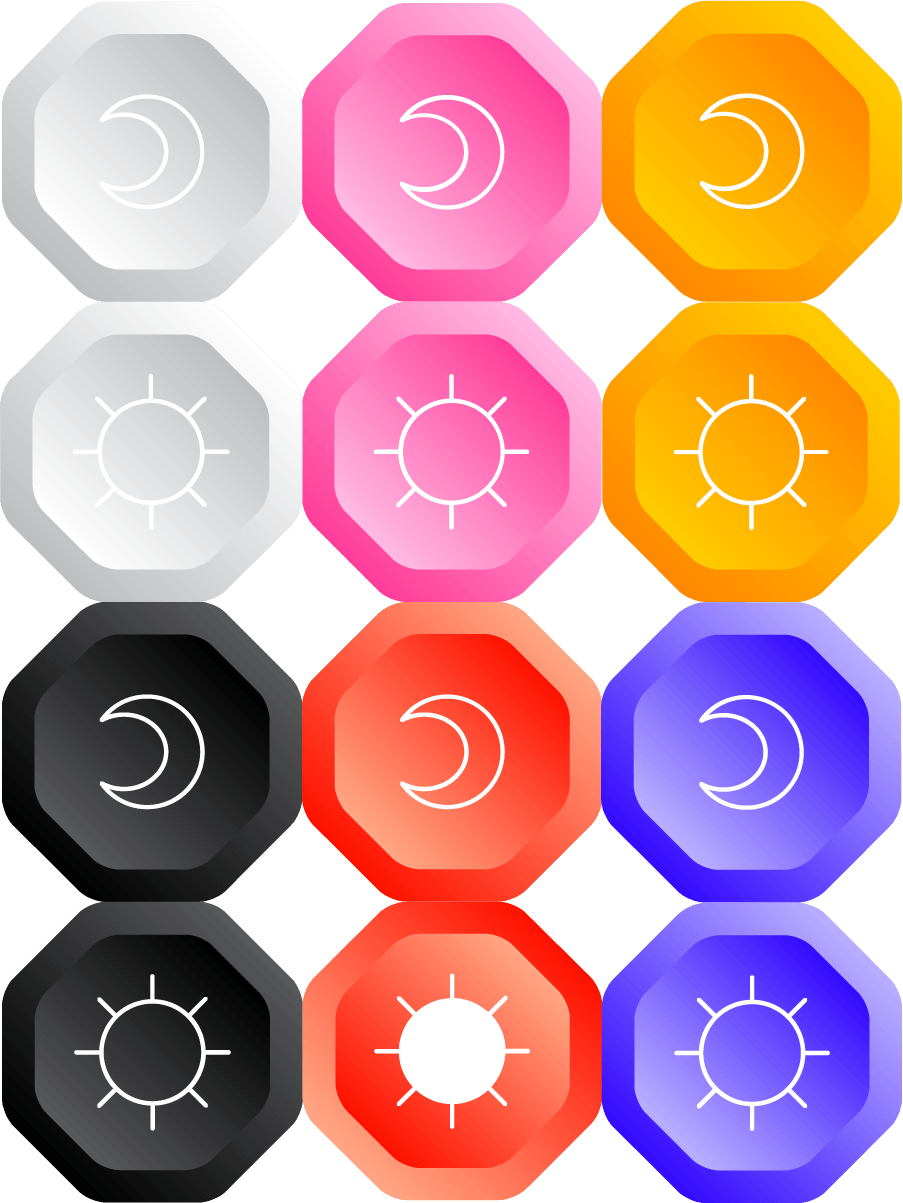
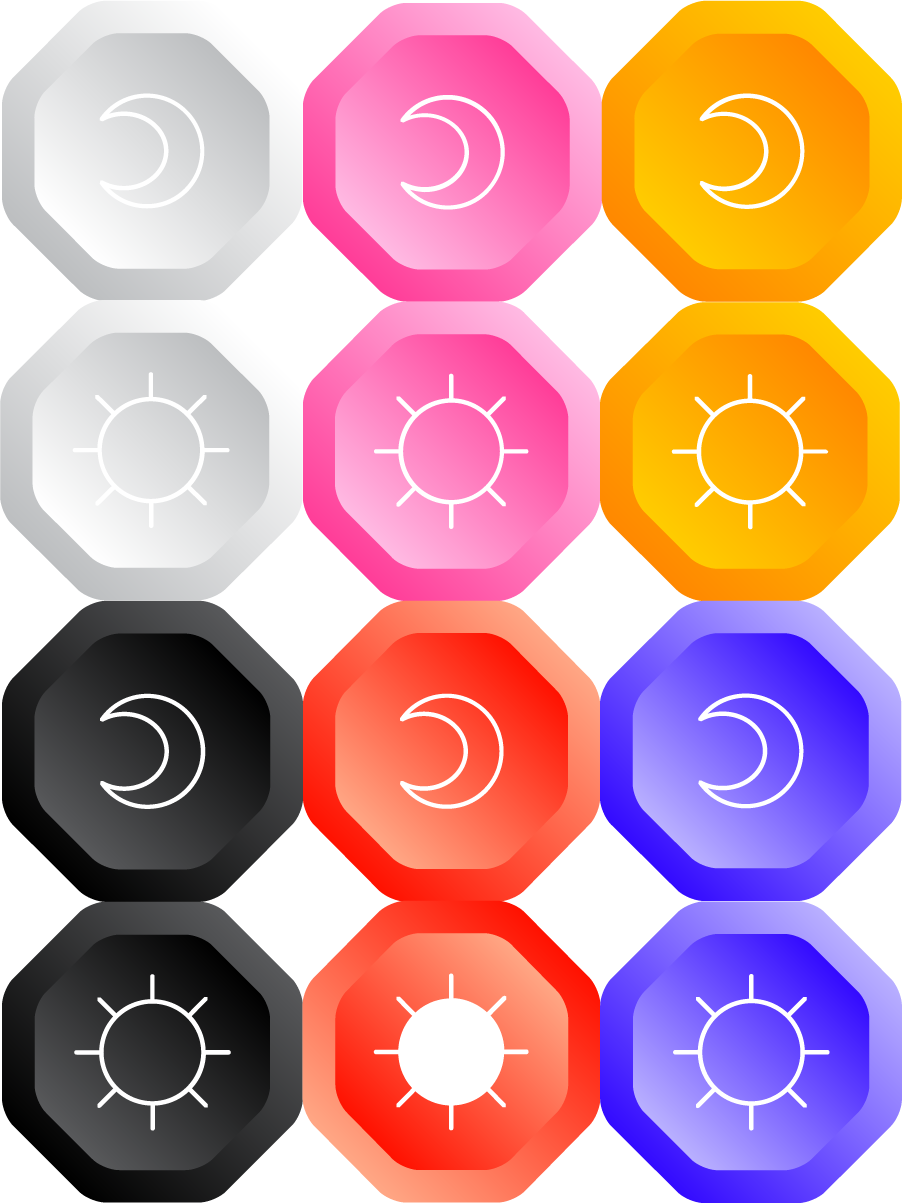
day part tile colors

diff --git a/js/game.js b/js/game.js
@@ -3,13 +3,13 @@ let game;
 let gameOptions = {
 
     // number of columns
-    columns: 5,
+    columns: 6,
 
     // number of rows, must be high enough to allow object pooling
     rows: 20,
 
     // tile speed in pixels per second
-    tileSpeed: 12,
+    tileSpeed: 90,
 
 }
 window.onload = function() {
@@ -43,25 +43,38 @@ class PlayGame extends Phaser.Scene{
         this.highScore = store.state.score;
         this.score = 0 ;
         this.scoreText = null;
+        this.dayPart = 'morning'
+        this.isLater = false;
     }
     preload(){
         let imageSize = window.devicePixelRatio;
-        console.log('window.devicePixelRatio',window.devicePixelRatio)
+        
+        console.log('imageSize',imageSize)
+
         this.load.spritesheet("tiles", "stones@" + imageSize + "x.png", {
-            frameWidth: 100,
-            frameHeight: 100
+            frameWidth: 100 * imageSize,
+            frameHeight: 100 * imageSize
         });        
+        
     }
     create(){
         // background images
         // this.add.image(540, 690, 'morningSky');
-
+        
         // physics group which manages all tiles in game
-        this.tileGroup = this.physics.add.group()
+        this.tileGroup = this.physics.add.group();
 
         // determining tile size according to game width and columns
         this.tileSize = game.config.width / gameOptions.columns;
 
+        //set part of the day; 
+
+        if(this.dayPart == 'evening' || this.dayPart == 'night') {
+            this.isLater = true;
+        } else {
+            this.isLater = false;
+        }
+        
         // time to add tiles to the game
         for(let i = 0; i < gameOptions.rows; i++){
 
@@ -75,9 +88,9 @@ class PlayGame extends Phaser.Scene{
 
             // now we place the tiles, row by row
             for(let j = 0; j < gameOptions.columns; j++){
-
+                let tileColor = this.isLater ? values[j].id + 5 : values[j].id;
                 // add a tile. Tile frame is set according to "values" shuffled array
-                let tile = this.tileGroup.create(j * this.tileSize, i * this.tileSize + game.config.height / 4 * 3, "tiles", values[j].id);
+                let tile = this.tileGroup.create(j * this.tileSize, i * this.tileSize + game.config.height / 4 * 3, "tiles", tileColor);
 
                 // call adjustTile method to adjust tile origin and display size
                 this.adjustTile(tile,values[j]);
@@ -85,7 +98,7 @@ class PlayGame extends Phaser.Scene{
         }
 
         // let's build once again an array with integers between 0 and gameOptions.columns - 1
-        let values = Phaser.Utils.Array.NumberArray(0, gameOptions.columns - 1);
+        let values = this.isLater ? Phaser.Utils.Array.NumberArray(5, (gameOptions.columns - 1)+5) : Phaser.Utils.Array.NumberArray(0, gameOptions.columns - 1);
 
         // remove the item at "middlecolor" position because we don't want it to be randomly selected
         values.splice(middleColor, 1);
@@ -144,11 +157,6 @@ class PlayGame extends Phaser.Scene{
         // set display width and height to "tileSize" pixels
         sprite.displayWidth = this.tileSize;
         sprite.displayHeight = this.tileSize;
-        if(value) {
-            sprite.flipY = value.rotated
-        } else {
-            sprite.flipY = !sprite.flipY
-        };
     }
 
     // method to move player tile
@@ -195,7 +203,7 @@ class PlayGame extends Phaser.Scene{
         let tileBelow = this.physics.overlapRect(this.player.x + this.tileSize / 2, this.player.y + this.tileSize * 1.5, 1, 1);
 
         // "tileBelow" is an array so we have to compare the first - and only - item frame with player frame. Are the two frames the same?
-        if(tileBelow[0].gameObject.frame.name == this.player.frame.name && tileBelow[0].gameObject.flipY != this.player.flipY){
+        if(tileBelow[0].gameObject.frame.name == this.player.frame.name){
 
             // we have a match
             this.matched = true;
@@ -226,9 +234,9 @@ class PlayGame extends Phaser.Scene{
 
                     // place all tiles below the lowest row
                     for(let i = 0; i < gameOptions.columns; i++){
-                        rowBelow[i].gameObject.setFrame(values[i].id);
+                        let frameName = this.isLater ? values[i].id + 5 : values[i].id;
+                        rowBelow[i].gameObject.setFrame(frameName);
                         rowBelow[i].gameObject.y += this.tileSize * gameOptions.rows;
-                        rowBelow[i].gameObject.flipY = values[i].rotated;
                     }
 
                     // check for matches again, there could be a combo
@@ -253,10 +261,13 @@ class PlayGame extends Phaser.Scene{
                 let tileBelow = this.physics.overlapRect(this.player.x + this.tileSize / 2, this.player.y + this.tileSize * 1.5, 1, 1);
 
                 // the good old array with all integers from zero to gameOptions.columns - 1
-                let values = Phaser.Utils.Array.NumberArray(0, gameOptions.columns - 1);
-
+                let values = this.isLater ? Phaser.Utils.Array.NumberArray(5, (gameOptions.columns - 1) + 5) : Phaser.Utils.Array.NumberArray(0, gameOptions.columns - 1);
+                
+                let tileBelowName = this.isLater ? tileBelow[0].gameObject.frame.name - 5 : tileBelow[0].gameObject.frame.name;
                 // remove the item at "frame" value of tile below the player pbecause we don't want it to be randomly selected
-                values.splice(tileBelow[0].gameObject.frame.name, 1);
+                values.splice(tileBelowName, 1);
+
+                
 
                 // change player frame
                 this.player.setFrame(Phaser.Utils.Array.GetRandom(values));
@@ -434,6 +445,7 @@ class livingBackground {
     constructor(game) { 
         this.gameContainer = document.querySelector("#thegame");
         this.game = game;
+        this.gameScene = null;
 
         this.init();
     }
@@ -441,12 +453,13 @@ class livingBackground {
     init() {
         // this.gameContainer.classList.add('night');
         // partsOfDay[1] = true;
-        this.setBackground();
+        
 
         setTimeout(()=>{
-            const gameScene = this.game.scene.getScene('PlayGame');
+            this.gameScene = this.game.scene.getScene('PlayGame');
+            this.setBackground();
             
-            gameScene.events.on('checktime', () => {
+            this.gameScene.events.on('checktime', () => {
                this.setBackground();
             })
         },100)
@@ -511,6 +524,7 @@ class livingBackground {
         this.gameContainer.classList.add(dayParts[0]);
         // this.gameContainer.classList.add('night');
         // partsOfDay[1] = true;
+        if(this.gameScene) this.gameScene.dayPart = dayParts[0];
 
         if(dayParts[1]) {
             this.gameContainer.classList.add('later');
